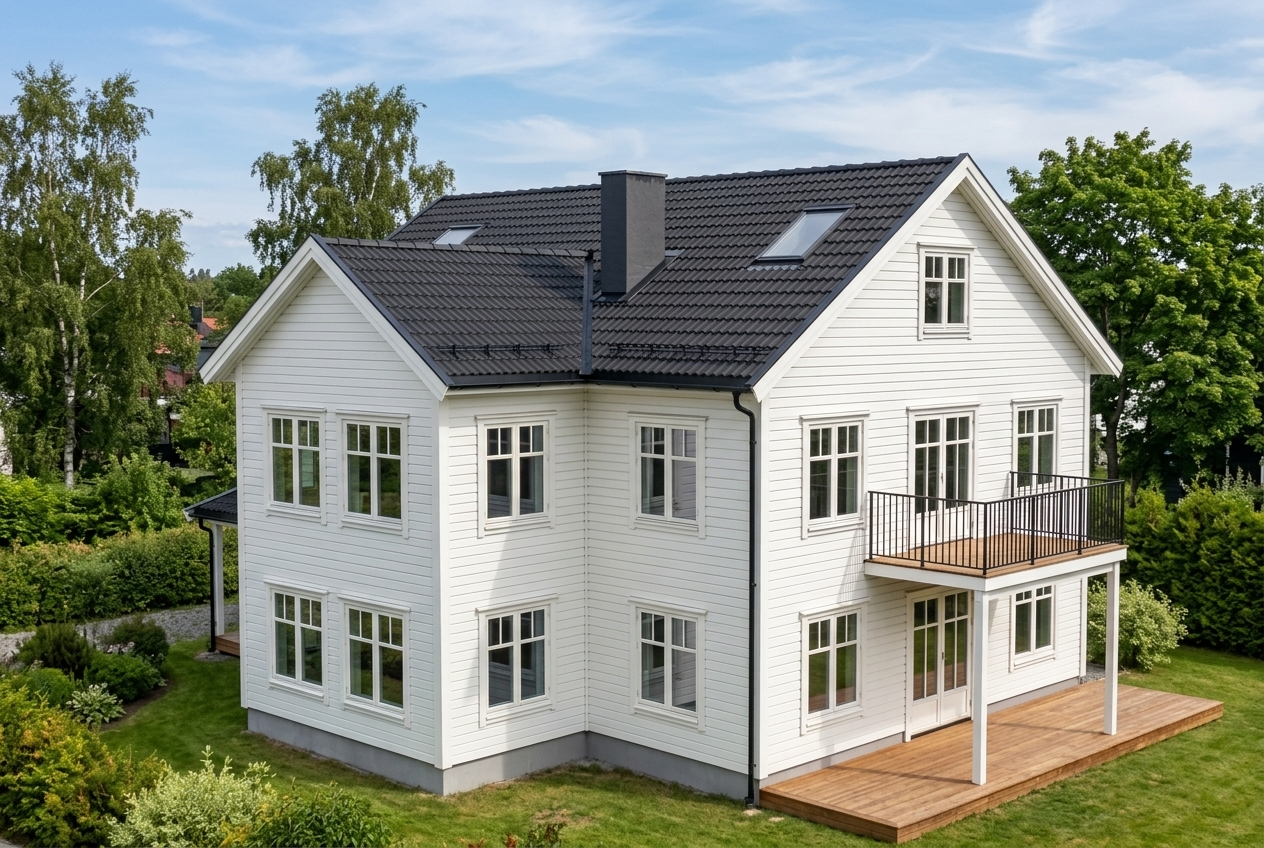
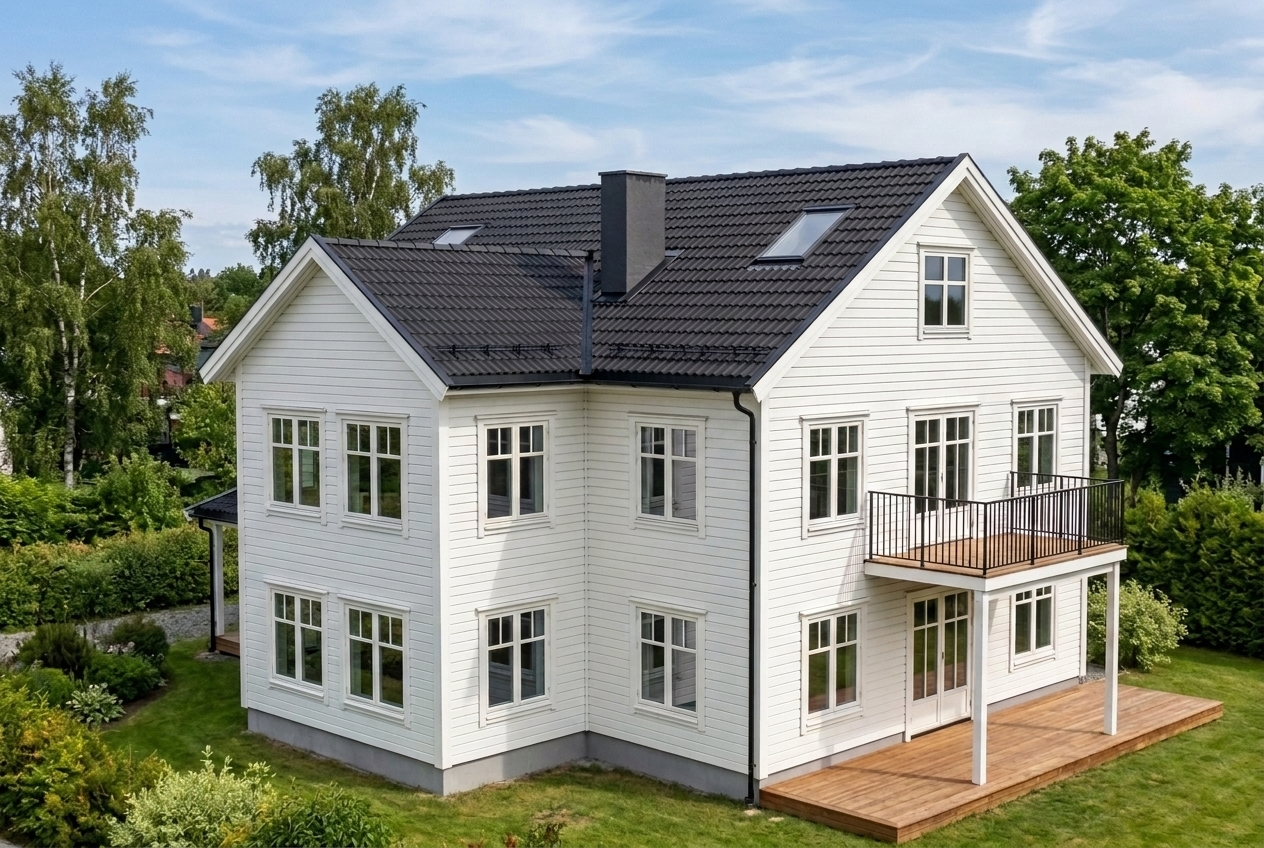
Complete 4-corner photorealistic renders for Alt 1 and Alt 2 with pure 4-pane windows (#50)

diff --git a/docs/ARKITEKTBRIEF_M6_REV2.md b/docs/ARKITEKTBRIEF_M6_REV2.md
@@ -93,9 +93,9 @@ Eksisterende vest-utbygg (`2,28 × 4,07 m`) **rives helt** for enkel tilgang til
   * [Nordvest — direkte sammenligning Alt 1 (`3,30×5,20 m, 20°`) vs. Alt 2 (`2,80×5,02 m, 32,7°`)](../assets/images/drawings/perspektiv_3d_nordvest_eksakt.png)
   * [Nordøst & Sørøst — Alternativ 2 (`100 %` fluktende østvegg, `2,50 m` nord-tilbygg, 3 åpne kjellertrinn + lavt `12°` trappetak under overlys `Bad 1.etg`)](../assets/images/drawings/perspektiv_3d_nordost_alt2_eksakt.png)
   * [Sydbalkong-sammenligning — `3,20×1,60 m` utkraget vs. `3,80×2,15 m` på 2 slanke søyler](../assets/images/drawings/perspektiv_3d_balkong_sammenligning.png)
-* **Fotorealistiske 3D-renders (oppdatert kors-sprosse-serie m/ moderne `3,80 × 2,15 m` sydbalkong & fluktende nord-trappevinduer):**
-  * **Alternativ 2 (Catrine — `2,80 × 5,02 m` vest, parallelt `32,7°` saltak, `2,50 m` nord):** [Sørvest](../assets/images/drawings/render_alt2_sorvest.jpg) · [Nordvest](../assets/images/drawings/render_alt2_nordvest.jpg)
-  * **Alternativ 1 (`3,30 × 5,20 m` vest, `20°` saltak, nord-verandadør):** [Sørvest](../assets/images/drawings/render_4hjorner_sorvest.jpg) · [Nordvest](../assets/images/drawings/render_4hjorner_nordvest.jpg) · [Nordøst](../assets/images/drawings/render_4hjorner_nordost.jpg) · [Sørøst](../assets/images/drawings/render_4hjorner_sorost.jpg)
+* **Fotorealistiske 3D-renders (komplett 4-hjørners serie for begge alternativer — ekte 4-ruts `+` kors-sprosser, moderne `3,80 × 2,15 m` sydbalkong, fluktende østvegg & nord-trappevinduer):**
+  * **Alternativ 2 (Catrine — `2,80 × 5,02 m` vest, parallelt `32,7°` saltak, `2,50 m` nord, `12°` øst-kjellertrapp):** [Sørvest](../assets/images/drawings/render_alt2_sorvest.jpg) · [Nordvest](../assets/images/drawings/render_alt2_nordvest.jpg) · [Nordøst](../assets/images/drawings/render_alt2_nordost.jpg) · [Sørøst](../assets/images/drawings/render_alt2_sorost.jpg)
+  * **Alternativ 1 (`3,30 × 5,20 m` vest, `20°` saltak, `2,10 m` nord m/ østdør, nord-verandadør):** [Sørvest](../assets/images/drawings/render_4hjorner_sorvest.jpg) · [Nordvest](../assets/images/drawings/render_4hjorner_nordvest.jpg) · [Nordøst](../assets/images/drawings/render_4hjorner_nordost.jpg) · [Sørøst](../assets/images/drawings/render_4hjorner_sorost.jpg)
 
 ---
 
